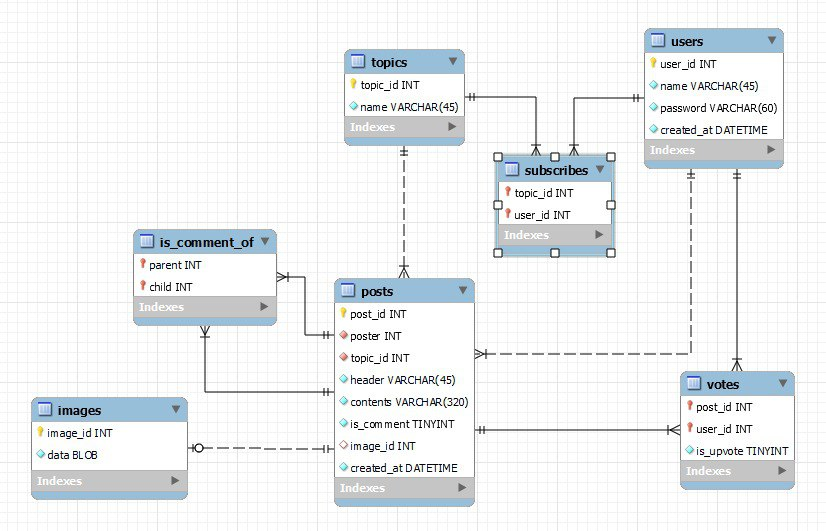
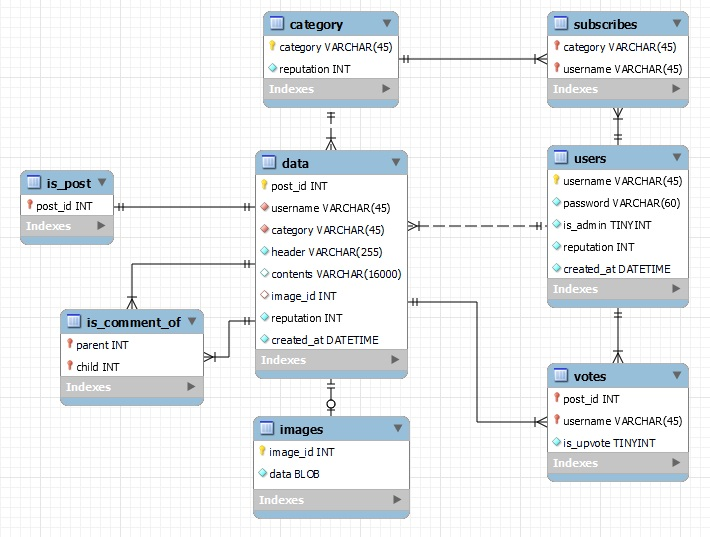
Addition of other SQL tables and major renaming

Changed region(s): [[0.0, 0.0, 0.9915, 0.9642]]

diff --git a/myapp/sql.js b/myapp/sql.js
@@ -1,17 +1,17 @@
-const insPostSQL = `INSERT INTO posts (username, header, contents) VALUES (?, ?, ?)`;
+const insPostSQL = `INSERT INTO data (username, header, contents) VALUES (?, ?, ?)`;
 const userinfowPassSQL = 'SELECT * FROM users WHERE username = ? AND password = ?';
 const userinfonoPassSQL = 'SELECT * FROM users WHERE username = ?';
-const postSQL = 'SELECT * FROM posts WHERE username = ?';
-const coutPostSQL = 'SELECT COUNT(*) as count FROM posts WHERE username = ?';
+const postSQL = 'SELECT * FROM data WHERE username = ?';
+const coutPostSQL = 'SELECT COUNT(*) as count FROM data WHERE username = ?';
 const insUserSQL = 'INSERT INTO users (username, password) VALUES (?, ?)';
-const deletepostSQL = 'DELETE FROM posts WHERE postid = ?';
-const getpostbyIdSQL = 'SELECT * FROM posts WHERE postid = ?';
-const updatepostSQL = 'UPDATE posts SET header = ?, contents = ? WHERE postId = ?';
-const selectAllPostSQL = 'SELECT * FROM posts';
-const selectPostByUser = 'SELECT * FROM posts WHERE username LIKE ?';
-const selectPostByHeader = 'SELECT * FROM posts WHERE header LIKE ?';
-const selectPostByContents = 'SELECT * FROM posts WHERE contents LIKE ?';
-const selectPost = 'SELECT * FROM posts p WHERE p.username LIKE ? OR p.header LIKE ? OR p.contents LIKE ?';
+const deletepostSQL = 'DELETE FROM data WHERE postid = ?';
+const getpostbyIdSQL = 'SELECT * FROM data WHERE postid = ?';
+const updatepostSQL = 'UPDATE data SET header = ?, contents = ? WHERE postId = ?';
+const selectAllPostSQL = 'SELECT * FROM data';
+const selectPostByUser = 'SELECT * FROM data WHERE username LIKE ?';
+const selectPostByHeader = 'SELECT * FROM data WHERE header LIKE ?';
+const selectPostByContents = 'SELECT * FROM data WHERE contents LIKE ?';
+const selectPost = 'SELECT * FROM data p WHERE p.username LIKE ? OR p.header LIKE ? OR p.contents LIKE ?';
 
 
 

diff --git a/myapp/routes/post.js b/myapp/routes/post.js
@@ -13,8 +13,8 @@ router.get('/:postid', async (req, res) => {
     let reply = req.body.content;
     
     try{
-        post = await queryAsync('SELECT header, contents FROM posts WHERE postId = ?', [postid]);
-        replies = await queryAsync('SELECT * FROM posts WHERE postId IN (SELECT child FROM is_comment_of WHERE parent = ?)', [postid]);
+        post = await queryAsync('SELECT header, contents FROM data WHERE post_id = ?', [postid]);
+        replies = await queryAsync('SELECT * FROM data WHERE post_id IN (SELECT child FROM is_comment_of WHERE parent = ?)', [postid]);
         numOfReplies = await queryAsync('SELECT COUNT(*) as count FROM is_comment_of WHERE parent = ?', [postid]);
 
         res.render('post',{

diff --git a/myapp/routes/index.js b/myapp/routes/index.js
@@ -12,7 +12,7 @@ var selectPost = db.selectPost;
 /* GET home page. */
 router.get('/', async (req, res, next) => {
   try {
-    let sql = 'SELECT * FROM posts ORDER BY created_at DESC';
+    let sql = 'SELECT * FROM data ORDER BY created_at DESC';
     posts = await queryAsync(sql);
     res.render('index', {
       posts: posts

diff --git a/README.md b/README.md
@@ -24,7 +24,7 @@ Post Page (details of the specific post)
 -------------------------------------
 
 
-![alt text](https://github.com/e0895846/TIC2601_Team4/blob/main/ReadMe%20Related/Full%20Schema%20Table.jpg?raw=true)
+![alt text](https://github.com/e0895846/TIC2601_Team4/blob/Develop/ReadMe%20Related/Full%20Schema%20Table.jpg)
 Use cases:
 1.	MainPage
 **-	User login**
